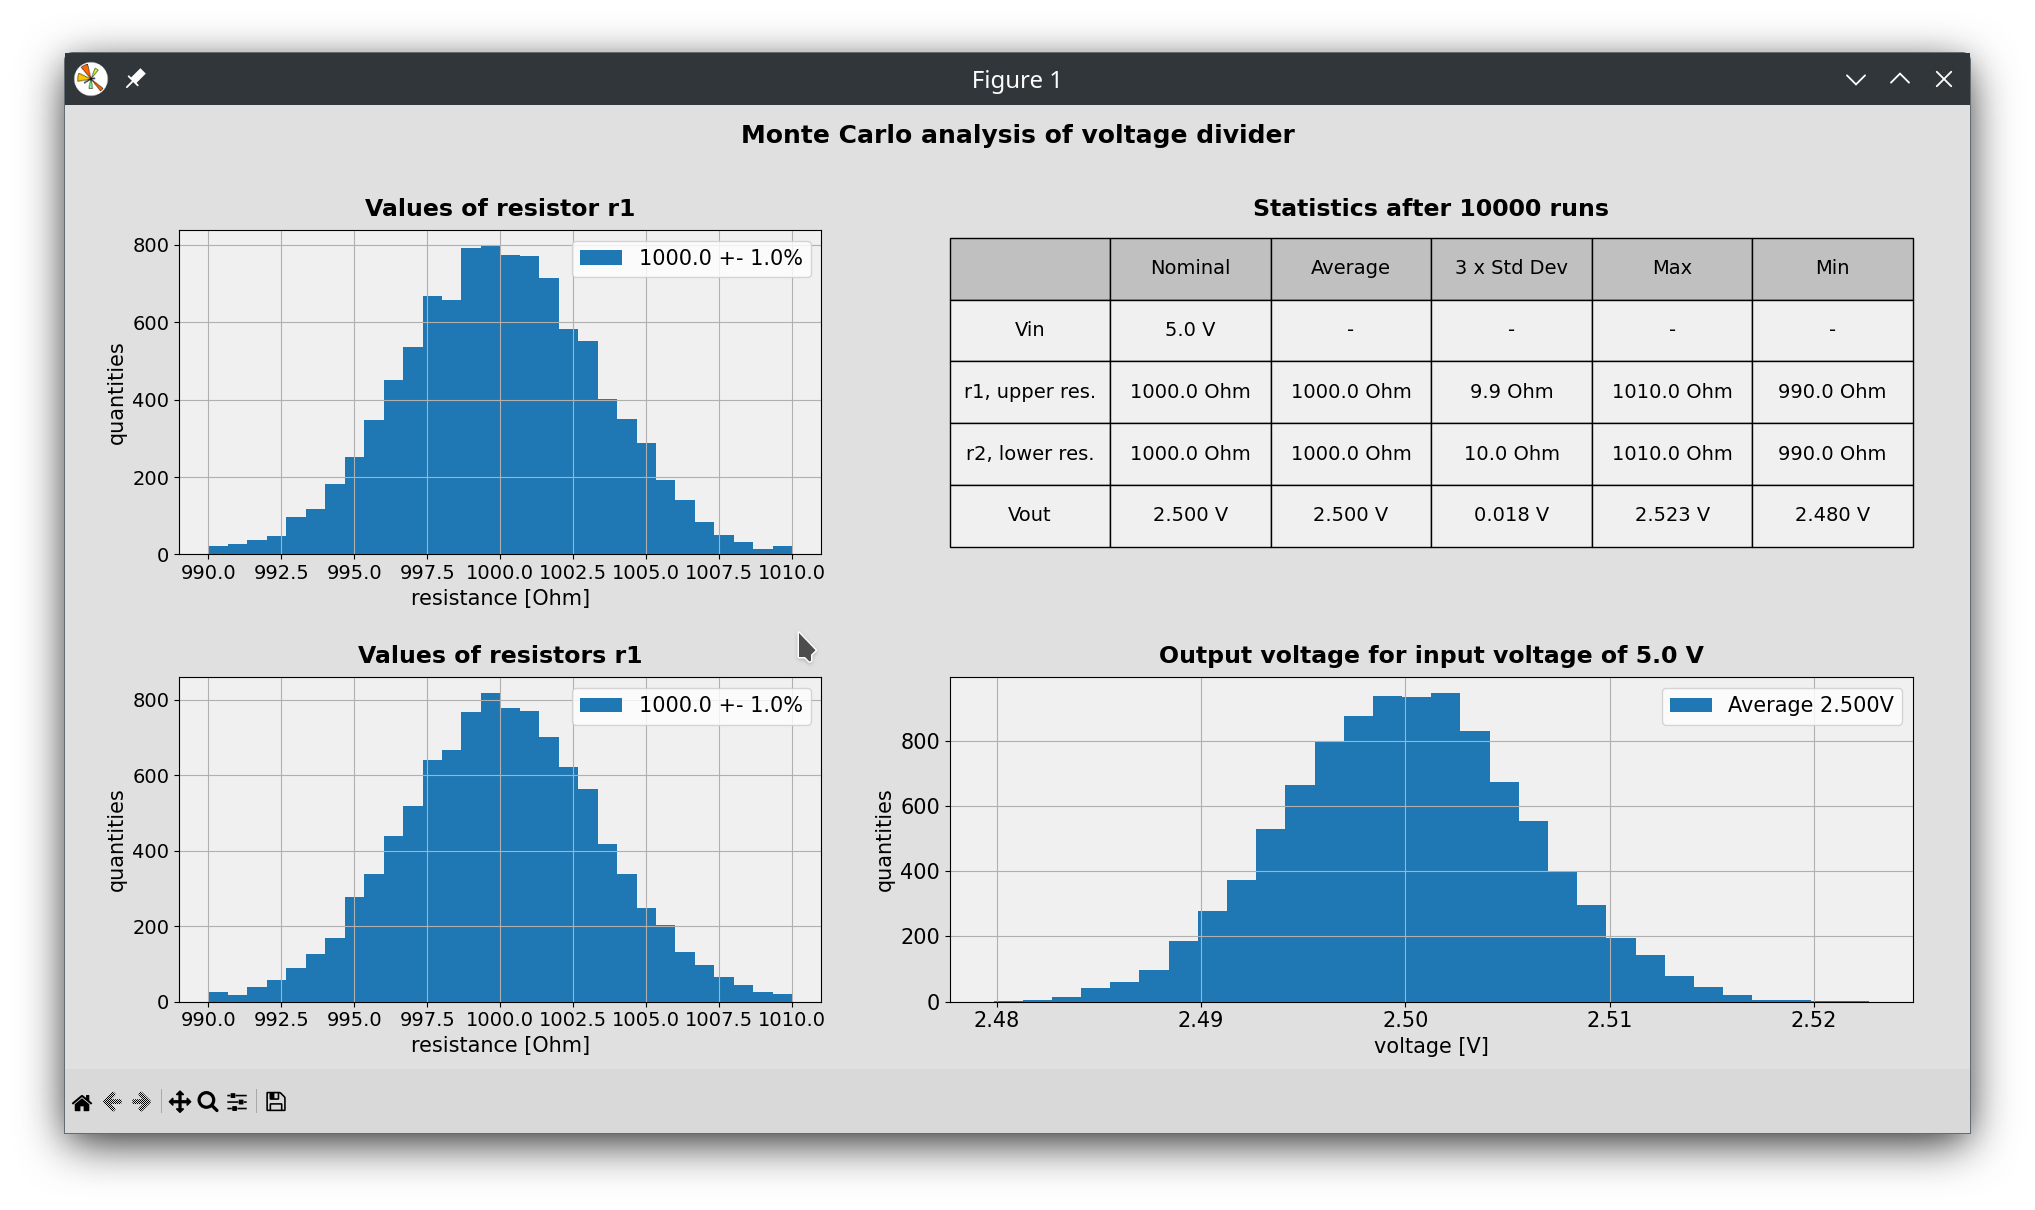
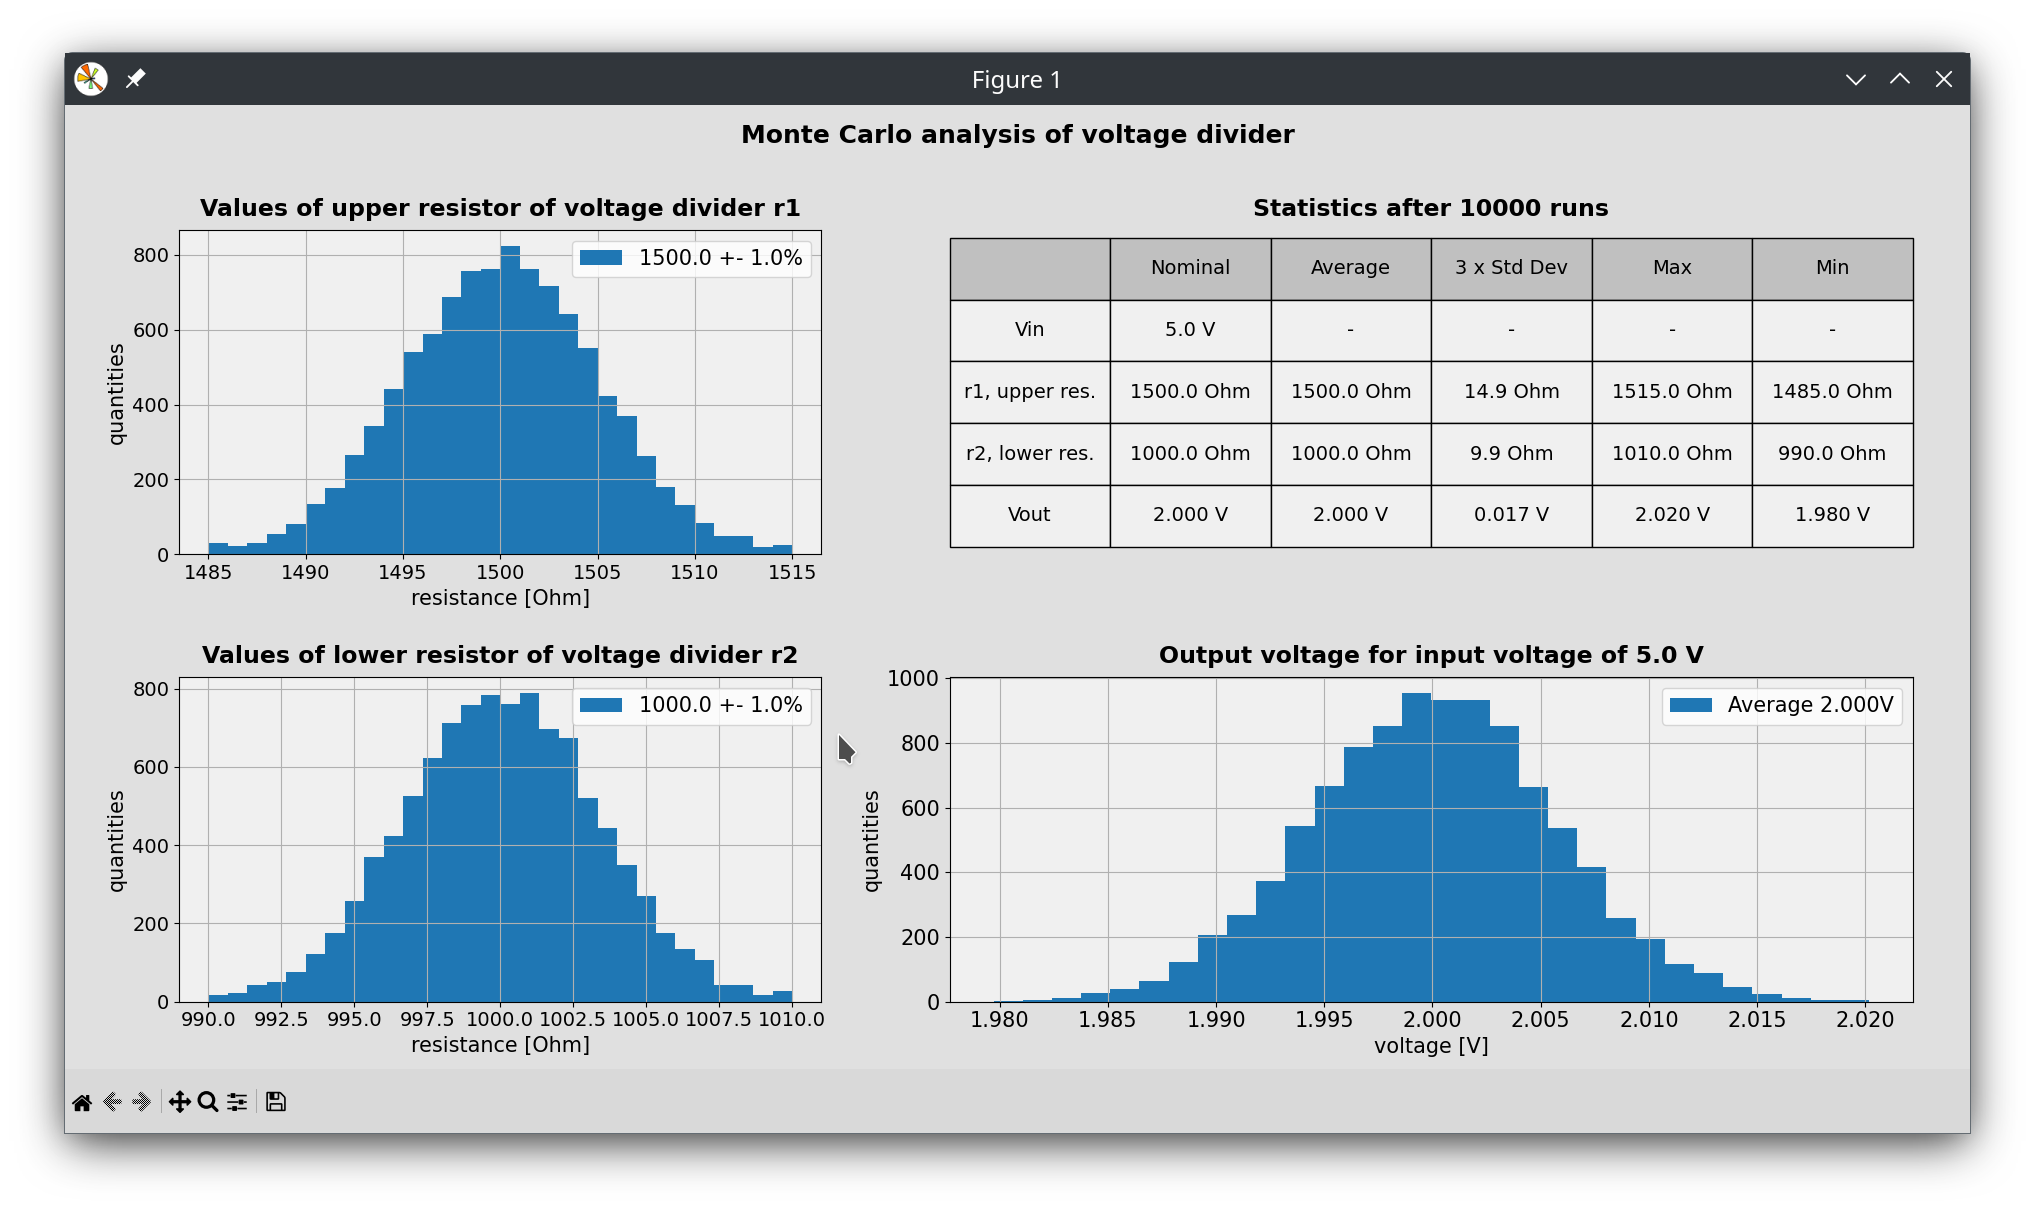
Add files via upload

diff --git a/monte_carlo_circuit.py b/monte_carlo_circuit.py
@@ -9,10 +9,24 @@ import numpy as np
 import matplotlib.pyplot as plt
 from matplotlib.gridspec import GridSpec # align subplots also with variable size
 
+r"""
+          r1
+Vin o---/\/\/\----o-------o Vout
+                  |
+                  |
+                  /
+                  \
+                  / r2
+                  \
+                  |
+                  |
+    o-------------o-------
+"""
+
 
  # ****  PARAMETERS  ****
 Vin = 5.0
-r1_nominal = 1e3 # upper resistor
+r1_nominal = 1.5e3 # upper resistor
 r2_nominal = 1e3 # lower resistor
 tolerance = 0.01 # of both resistors
 ratio_tol_stddev = 3.0 # ratio of tolerance / standard deviation
@@ -56,7 +70,7 @@ plt.suptitle(f"Monte Carlo analysis of voltage divider",
 
 # subplot showing histogram of r1
 plt.subplot(gs[0])
-plt.title("Values of resistor r1", 
+plt.title("Values of upper resistor of voltage divider r1", 
             fontsize = text_size + 2, fontweight = "bold", y = 1.02)
 plt.xlabel("resistance [Ohm]", fontsize = text_size)
 plt.ylabel("quantities", fontsize = text_size)
@@ -69,7 +83,7 @@ plt.legend(fontsize = text_size)
 
 # subplot showing histogram of r2
 plt.subplot(gs[2])
-plt.title("Values of resistors r1", 
+plt.title("Values of lower resistor of voltage divider r2", 
             fontsize = text_size + 2, fontweight = "bold", y = 1.02)
 plt.xlabel("resistance [Ohm]", fontsize = text_size)
 plt.ylabel("quantities", fontsize = text_size)
